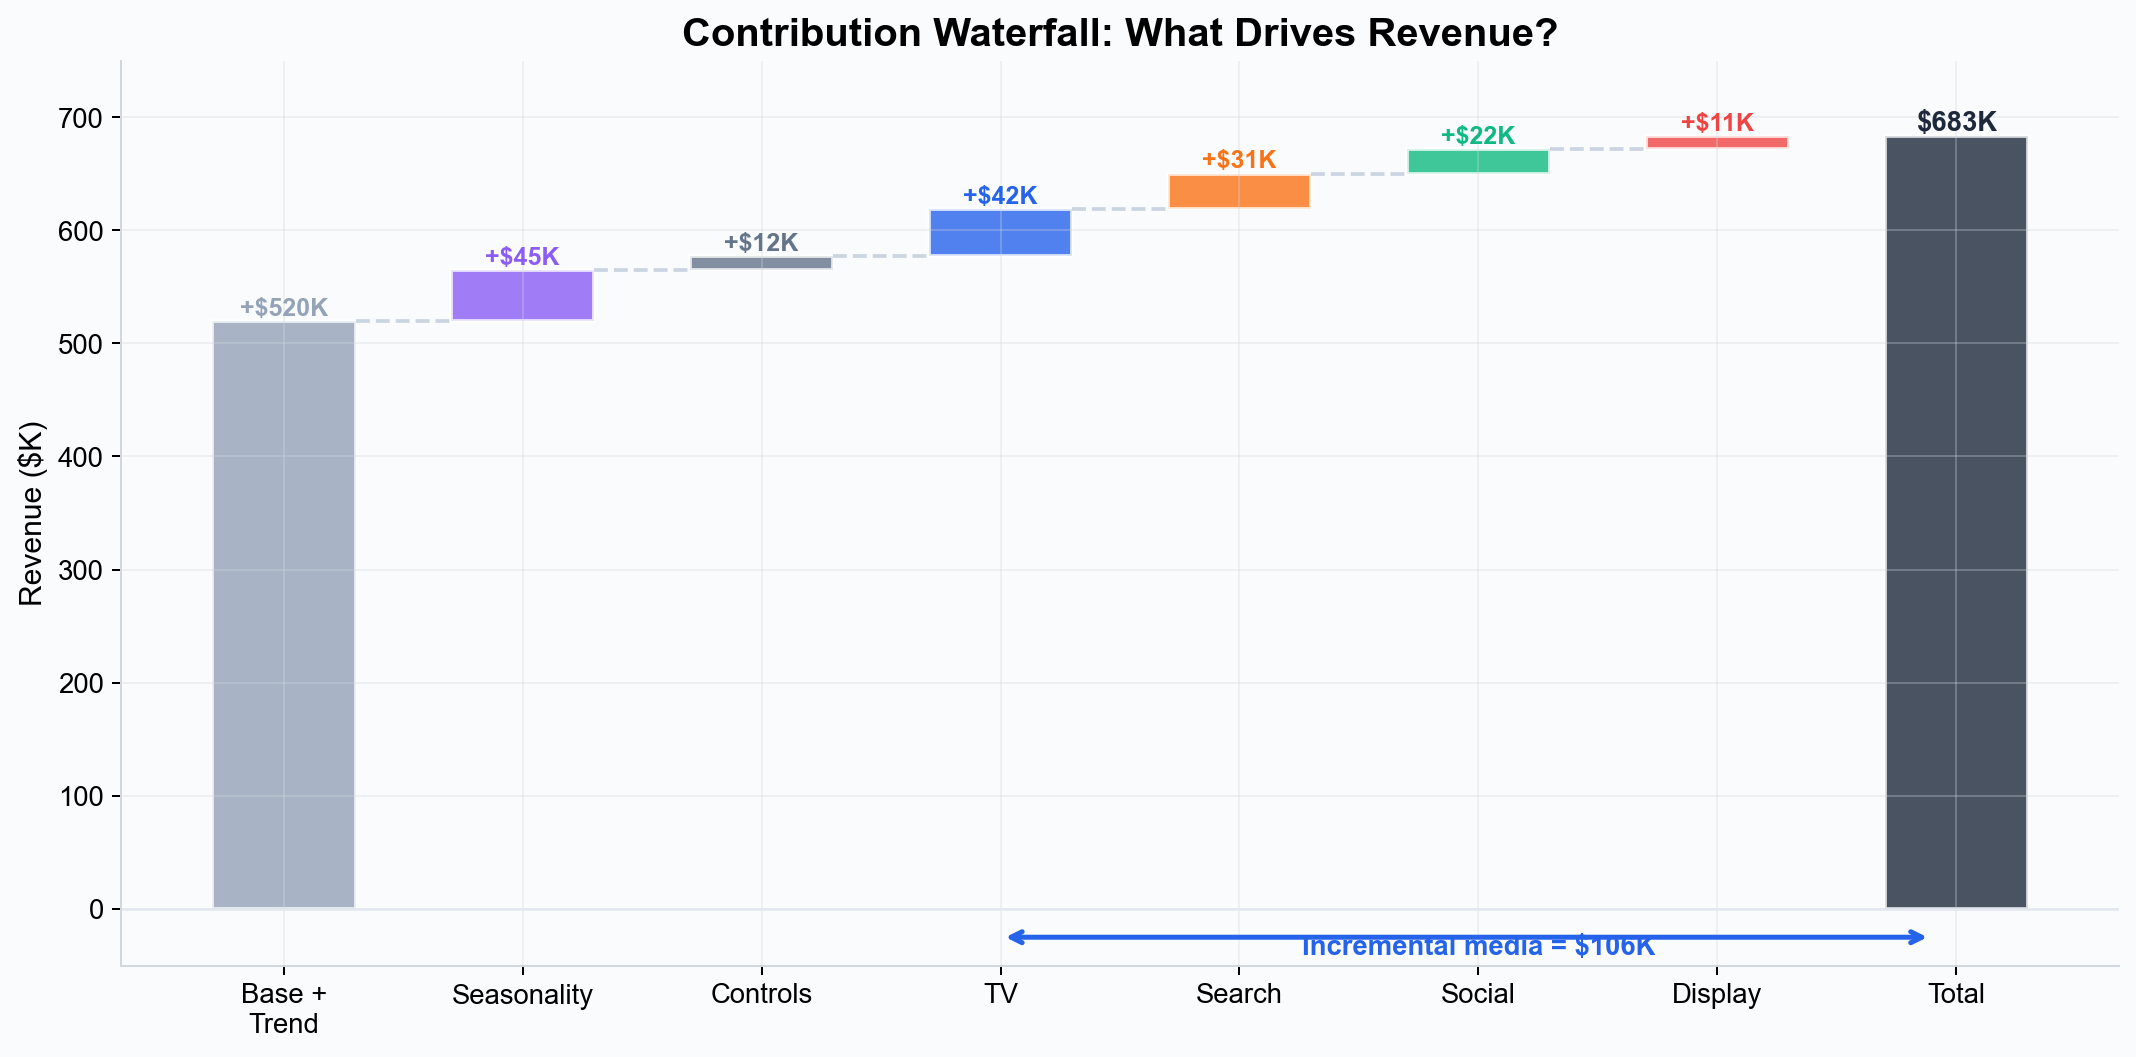
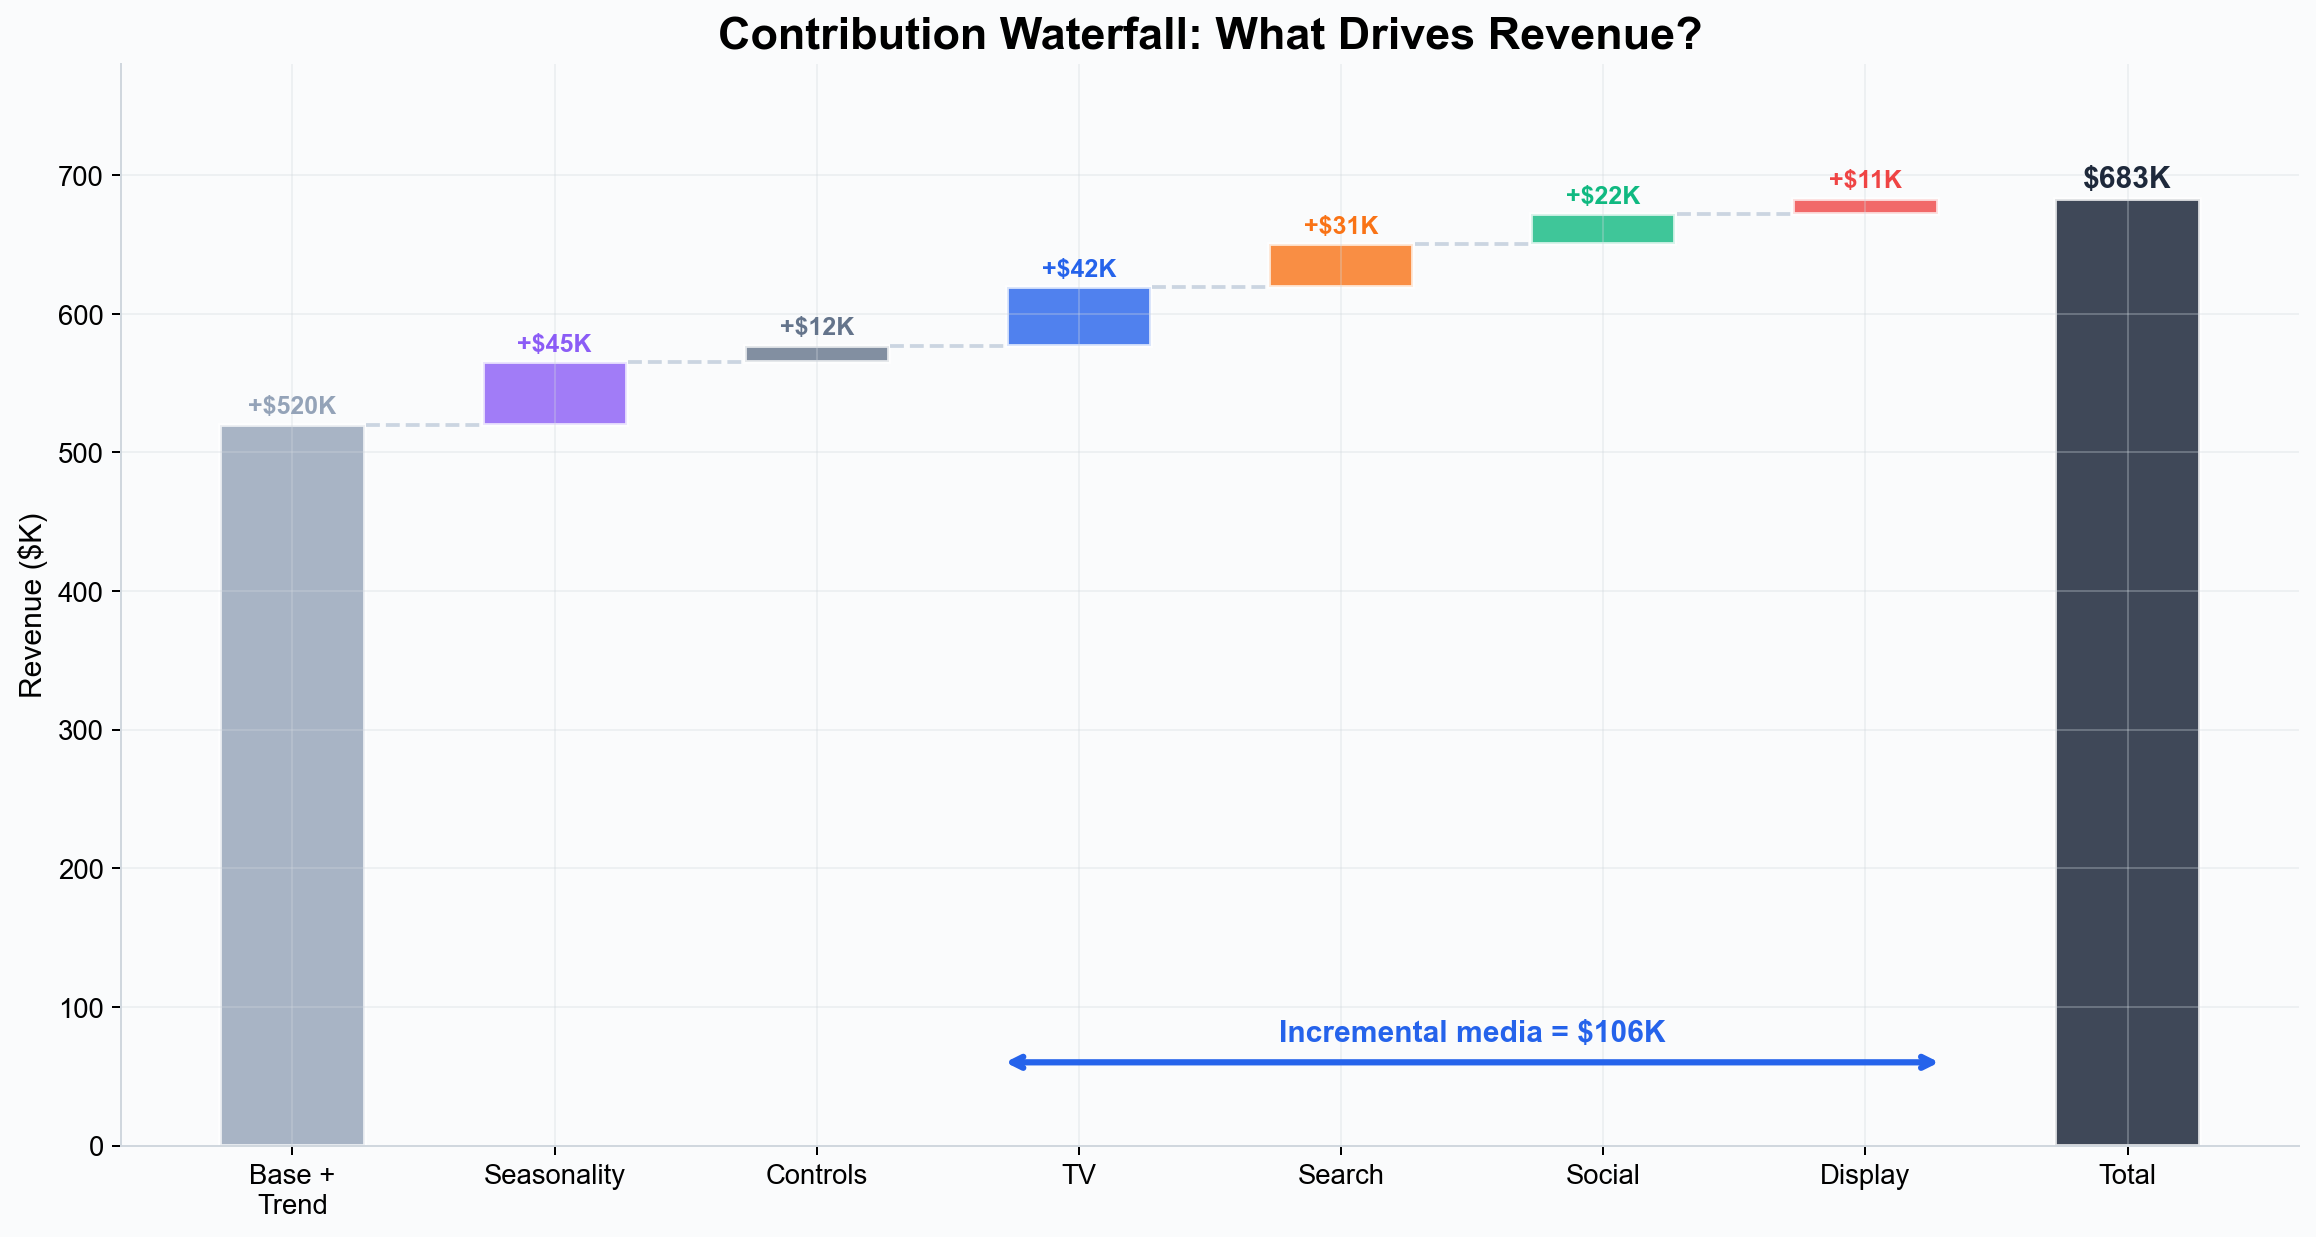
docs: fix waterfall chart bracket, add lift test integration diagram
- Waterfall: moved incremental media bracket inside chart area (was clipped below axis)
- Added lift test diagram showing: experiment (treatment/control → measured lift) →
  enters model as likelihood observation → calibrated posterior consistent with both
  time-series and experiment → virtuous cycle (run test → calibrate → improve → prioritize)

diff --git a/docs/core-concepts/incrementality.md b/docs/core-concepts/incrementality.md
@@ -82,6 +82,9 @@ While lift tests are the gold standard for single-channel causal measurement, th
 
 Simba bridges this gap by letting you **calibrate the model with lift test results**. When you add a lift test result in the Model Details step, it enters the model as an additional likelihood term (not a prior). The model then combines this experimental evidence with the observational time-series data, producing posterior estimates that are consistent with both.
 
+![How lift tests calibrate the Bayesian model](./images/incrementality-lift-test.png)
+*Left: a lift test produces a measured lift (e.g., +15% with a confidence interval). Center: this enters the Bayesian model as a likelihood observation alongside the time-series data, constraining the response curve for that channel. Right: the resulting posterior is calibrated to be consistent with both the experiment and the observational data --- improving estimates for all channels.*
+
 This creates a virtuous cycle:
 
 1. Run a lift test on a high-priority channel.
